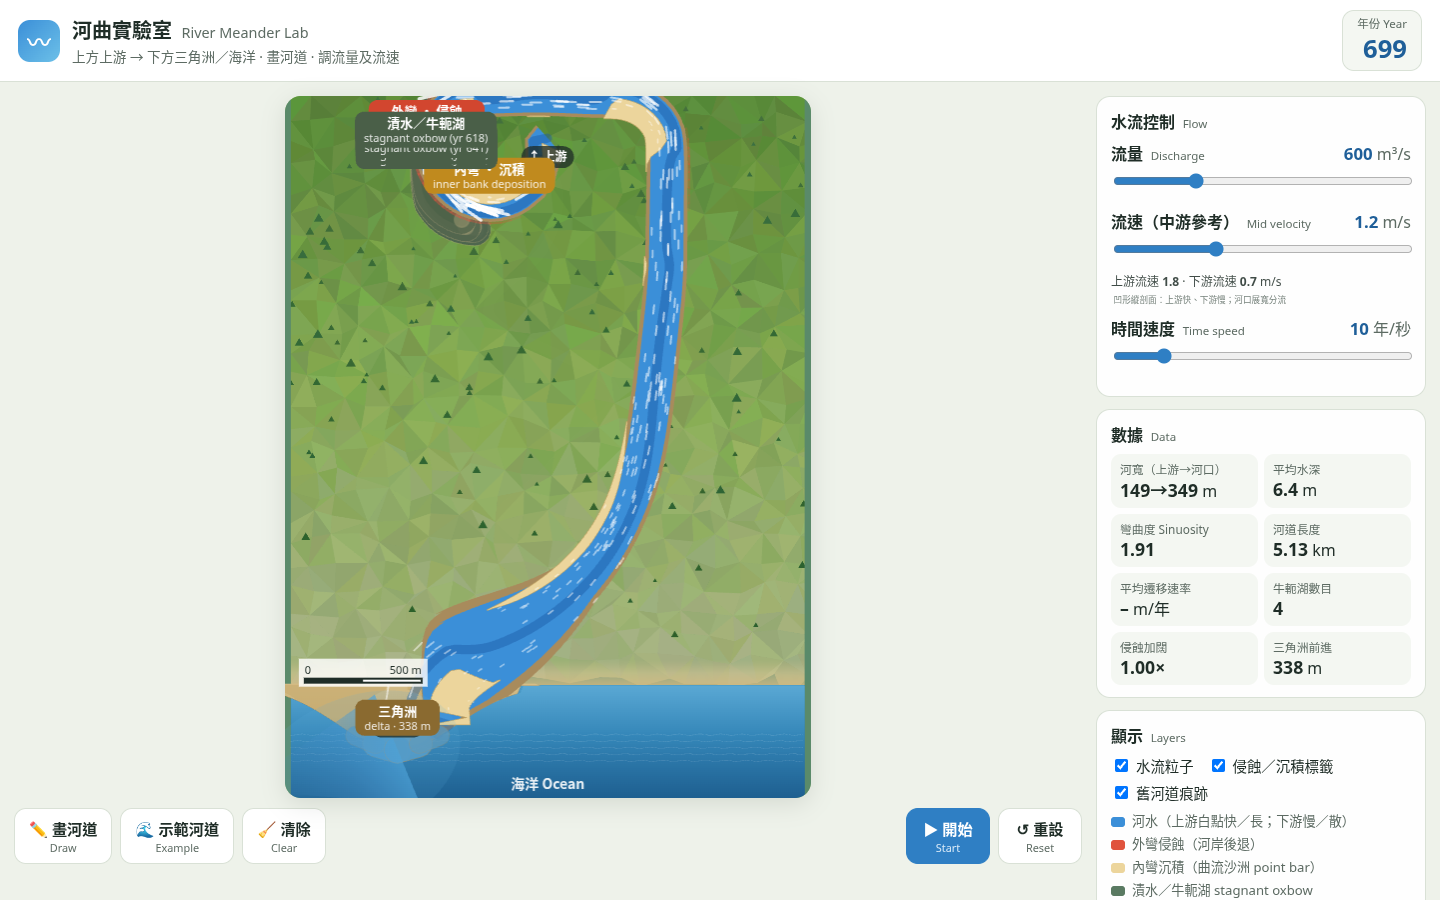
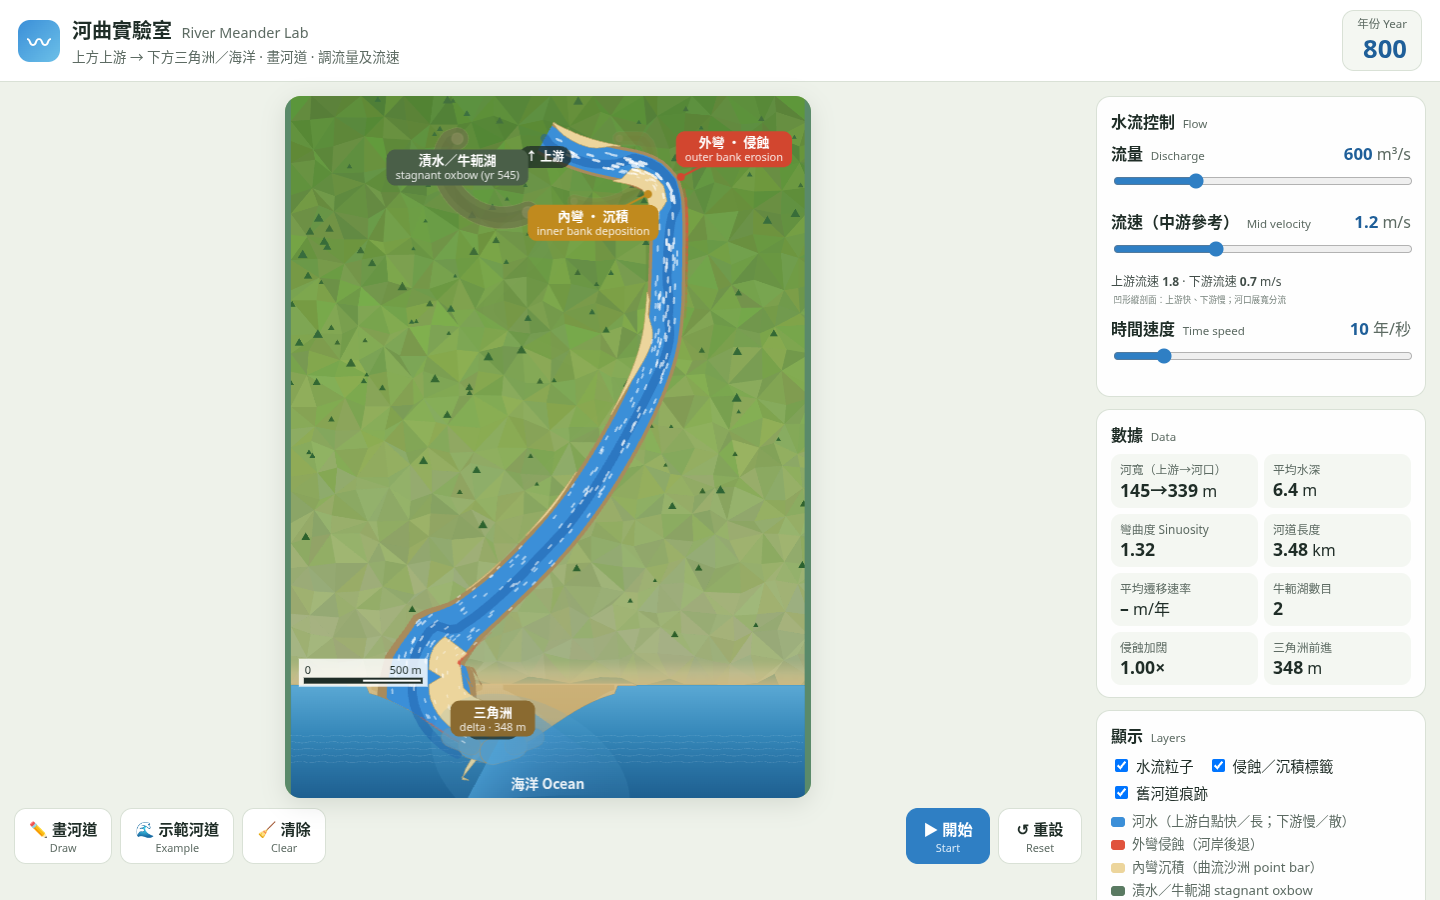
Prevent upstream climb: seaward-only flow and limited Y backtrack
Root cause: migration normals could push nodes upslope, letting bends
fold into hairpins that curl back toward the source.

- Dampen upslope migration; prefer lateral (across-valley) motion
- enforceDownslopeProgress: cap along-channel Y reversal (~2× width)
- cutUpstreamHairpins when path returns near source after going south
- Particles: f only increases toward mouth; streaks follow channel tangent
- Tests: max upslope reversal, no source-return hairpin, particle df≥0

diff --git a/sim.js b/sim.js
@@ -441,7 +441,12 @@
         sum += Math.abs(d);
 
         let mx = -g.nx[i] * d, my = -g.ny[i] * d;
-        // 唔好遷入海：若下一步入海就截喺岸邊
+        // 優先側向遷移：大幅抑制「向上游／上坡」（y 減少）分量
+        if (my < 0) my *= 0.18;
+        // 鄰點約束：唔好令本點明顯爬返上游
+        if (i > 0 && p[i].y + my < p[i - 1].y - this.width * 1.1) {
+          my = Math.max(my, p[i - 1].y - this.width * 1.1 - p[i].y);
+        }
         let nx_ = p[i].x + mx, ny_ = p[i].y + my;
         if (this.isOcean(nx_, ny_, 5)) {
           ny_ = this.waterLineY(nx_) - 4;
@@ -454,10 +459,12 @@
       // 上游：彈簧拉向 sourceAnchor（可輕微漂移）
       if (this.sourceAnchor) {
         const k = 0.35;
+        const sy = Math.max(p[0].y, this.sourceAnchor.y); // 源頭唔准北移
         np[0] = {
           x: p[0].x + (this.sourceAnchor.x - p[0].x) * k * Math.min(1, dt),
-          y: p[0].y + (this.sourceAnchor.y - p[0].y) * k * Math.min(1, dt)
+          y: p[0].y + (sy - p[0].y) * k * Math.min(1, dt)
         };
+        if (np[0].y < p[0].y) np[0].y = p[0].y;
       }
 
       // 河口：鎖在海岸／三角洲水線內側
@@ -481,6 +488,7 @@
       let nxt = resample(sm, ds);
       if (nxt.length > 420) nxt = resample(sm, ds * (nxt.length / 380));
       nxt = this.attractToValley(nxt, 0.12);
+      nxt = this.enforceDownslopeProgress(nxt);
       this.pts = this.clipChannelToLand(nxt);
       this.year += dt;
       this.ph1 += (Math.random() - 0.5) * 0.4 * Math.sqrt(dt);
@@ -513,7 +521,10 @@
       while (this.sinuosity() > 2.0 && guard++ < 4) {
         if (!this.forceLargestLoopCutoff()) break;
       }
-      this.pts = this.attractToValley(this.spreadBends(this.clipChannelToLand(this.pts)), 0.08);
+      this.pts = this.enforceDownslopeProgress(
+        this.attractToValley(this.spreadBends(this.clipChannelToLand(this.pts)), 0.08)
+      );
+      this.cutUpstreamHairpins();
       this.resolveSelfIntersections(4);
       this.computeGeom();
       const rate = meanMig / Math.max(dt, 1e-6);
@@ -811,7 +822,102 @@
 
     /** @deprecated 用 truncateAtCoast */
     clipChannelToLand(pts) {
-      return this.enforceSeawardNearCoast(this.truncateAtCoast(pts));
+      return this.enforceDownslopeProgress(
+        this.enforceSeawardNearCoast(this.truncateAtCoast(pts))
+      );
+    }
+
+    /**
+     * 沿程大致向海（Y 增加）。允許輕微曲流折返，但唔准髮夾彎向上游爬。
+     * maxBack ≈ min(2.0×河寬, 0.18×波長)。
+     */
+    maxUpslopeAllowance() {
+      return Math.min(this.width * 2.0, this.meanderWavelength * 0.18);
+    }
+
+    enforceDownslopeProgress(pts) {
+      if (!pts || pts.length < 3) return pts;
+      const out = pts.map(q => ({ x: q.x, y: q.y }));
+      const maxBack = this.maxUpslopeAllowance();
+      let runMax = out[0].y;
+      for (let i = 1; i < out.length; i++) {
+        // 相鄰：唔好大幅向北
+        const floorLocal = out[i - 1].y - maxBack * 0.55;
+        if (out[i].y < floorLocal) out[i].y = floorLocal;
+        // 包絡：相對已達最南點，折返唔好超過 maxBack
+        const floorEnv = runMax - maxBack;
+        if (out[i].y < floorEnv) out[i].y = floorEnv;
+        runMax = Math.max(runMax, out[i].y);
+      }
+      // 源頭之後前 8% 節點：更嚴，避免近源髮夾
+      const nHead = Math.max(4, Math.floor(out.length * 0.1));
+      const headBack = Math.min(maxBack * 0.45, this.width * 1.1);
+      let headMax = out[0].y;
+      for (let i = 1; i < nHead && i < out.length; i++) {
+        if (out[i].y < headMax - headBack) out[i].y = headMax - headBack;
+        if (out[i].y < out[i - 1].y - headBack * 0.7) out[i].y = out[i - 1].y - headBack * 0.7;
+        headMax = Math.max(headMax, out[i].y);
+      }
+      return out;
+    }
+
+    /**
+     * 若河道離開源頭後又折返接近源頭 Y → 視為向上游髮夾，強制截彎。
+     */
+    cutUpstreamHairpins() {
+      const p = this.pts;
+      if (!p || p.length < 16) return 0;
+      const y0 = p[0].y;
+      const yMouth = p[p.length - 1].y;
+      const span = Math.max(200, yMouth - y0);
+      const nearSrc = y0 + span * 0.18;
+      let farSouth = y0;
+      let cuts = 0;
+      for (let i = 2; i < p.length - 2; i++) {
+        farSouth = Math.max(farSouth, p[i].y);
+        // 已去到夠下游，又折返接近源頭
+        if (farSouth > y0 + span * 0.28 && p[i].y < nearSrc) {
+          // 搵環路起點：最近一個遠南點
+          let jStart = 1;
+          for (let k = i - 1; k >= 1; k--) {
+            if (p[k].y >= farSouth - this.width * 0.5) { jStart = k; break; }
+          }
+          if (i - jStart >= 6) {
+            if (this.applyCutoff(jStart, i, { forced: true })) {
+              cuts++;
+              farSouth = this.pts[0].y;
+              break; // pts 已變，交俾下一步再掃
+            }
+          }
+        }
+      }
+      return cuts;
+    }
+
+    /** 測試：沿程 Y 折返是否超過上限 */
+    maxUpslopeReversal() {
+      const p = this.pts;
+      if (!p || p.length < 2) return 0;
+      let runMax = p[0].y, worst = 0;
+      for (let i = 1; i < p.length; i++) {
+        worst = Math.max(worst, runMax - p[i].y);
+        runMax = Math.max(runMax, p[i].y);
+      }
+      return worst;
+    }
+
+    /** 測試：離開源頭後有冇折返到接近源頭 */
+    hasUpstreamHairpin() {
+      const p = this.pts;
+      if (!p || p.length < 8) return false;
+      const y0 = p[0].y;
+      const span = Math.max(200, p[p.length - 1].y - y0);
+      let far = y0;
+      for (let i = 1; i < p.length; i++) {
+        far = Math.max(far, p[i].y);
+        if (far > y0 + span * 0.3 && p[i].y < y0 + span * 0.16) return true;
+      }
+      return false;
     }
 
     /**

diff --git a/app.js b/app.js
@@ -139,30 +139,35 @@
     const g = sim.geom; if (!g || sim.pts.length < 3) return;
     const L = g.length;
     for (const q of state.particles) {
-      const frac = Math.max(0, Math.min(1, q.f));
-      const loc = locate(q.f * L);
-      // 橫向：上游集中，下游／河口擴散（展現展寬）
+      const frac = Math.max(0, Math.min(0.999, q.f || 0));
+      const loc = locate(frac * L);
+      // 橫向：上游集中，下游／河口擴散
       const spread = 0.55 + 0.9 * Math.pow(frac, 1.4);
       let fac = (1 - 1.2 * loc.cw * q.o) * (1 - 0.3 * q.o * q.o);
       fac = Math.max(0.2, Math.min(2.4, fac));
       const vLoc = sim.velocityAt(frac);
-      // speed 正規化到中游參考，方便畫長短拖尾
       q.speed = (vLoc / Math.max(0.2, sim.v)) * fac;
-      q.f += (vLoc * fac * 78 * dtSec) / L;
+      // 硬規則：只准向河口（f 只增不減）；重置只喺上游重生
+      const df = Math.max(0, (vLoc * fac * 78 * dtSec) / L);
+      q.fPrev = frac;
+      q.f = frac + df;
       if (q.f >= 1) {
-        // 到河口後少數粒子沿分流扇出再重生
-        q.f = Math.random() * 0.12;
+        q.f = Math.random() * 0.08; // 重生喺上游
         q.o = (Math.random() * 2 - 1) * 0.9;
         q.px = null;
+        q.fPrev = q.f;
       }
-      const l2 = locate(Math.min(0.999, q.f) * L);
-      const wLoc = sim.widthAt(Math.min(1, q.f));
-      // 下游橫向偏移加大 → 粒子散開
+      const f2 = Math.min(0.999, q.f);
+      const l2 = locate(f2 * L);
+      const wLoc = sim.widthAt(f2);
       const lat = q.o * wLoc * 0.5 * spread;
       q.lx = q.px; q.ly = q.py;
       q.px = l2.x + l2.nx * lat;
       q.py = l2.y + l2.ny * lat;
-      if (q.py > sim.waterLineY(q.px) - 2) { q.f = Math.random() * 0.35; q.px = null; }
+      // 拖尾方向：沿河道切線向下游（唔跟幾何折返）
+      const idx = Math.min(g.tx.length - 1, Math.max(0, Math.floor(f2 * (g.tx.length - 1))));
+      q.tx = g.tx[idx]; q.ty = g.ty[idx];
+      if (q.py > sim.waterLineY(q.px) - 2) { q.f = Math.random() * 0.2; q.px = null; }
     }
   }
 
@@ -562,19 +567,24 @@
   function drawParticles(c, land) {
     c.save(); c.lineCap = 'round';
     const tipY = land[land.length - 1].y;
+    const s = state.view.s;
     for (const q of state.particles) {
-      if (q.lx == null || q.px == null) continue;
+      if (q.px == null) continue;
       if (q.py > tipY - 8) continue;
       if (q.py > sim.waterLineY(q.px) - 2) continue;
-      const a = toScreen({ x: q.lx, y: q.ly }), b = toScreen({ x: q.px, y: q.py });
-      const dx = b.x - a.x, dy = b.y - a.y;
-      if (dx * dx + dy * dy > 1200) continue;
-      // 上游長亮拖尾；河口短而淡
+      const b = toScreen({ x: q.px, y: q.py });
       const sp = Math.max(0.25, q.speed || 1);
-      const k = 2.2 + sp * 2.4;
+      // 拖尾沿河道切線向下游（tx,ty 指向河口方向）
+      let tx = q.tx || 0, ty = q.ty || 1;
+      const tl = Math.hypot(tx, ty) || 1;
+      tx /= tl; ty /= tl;
+      const len = (6 + sp * 14) * s; // screen px
       c.strokeStyle = `rgba(255,255,255,${0.28 + 0.55 * Math.min(1, sp / 1.8)})`;
       c.lineWidth = 1.0 + sp * 1.05;
-      c.beginPath(); c.moveTo(b.x - dx * k, b.y - dy * k); c.lineTo(b.x, b.y); c.stroke();
+      c.beginPath();
+      c.moveTo(b.x - tx * len, b.y - ty * len);
+      c.lineTo(b.x, b.y);
+      c.stroke();
     }
     c.restore();
   }

diff --git a/test/sim.test.js b/test/sim.test.js
@@ -28,6 +28,13 @@ function assertCentered(sim, label) {
     label + ': meanX=' + st.mean.toFixed(0) + ' not mid-map');
 }
 
+function assertDownslope(sim, label) {
+  const allow = sim.maxUpslopeAllowance() * 1.05;
+  const rev = sim.maxUpslopeReversal();
+  assert(rev <= allow, label + ': upslope reversal ' + rev.toFixed(1) + ' > ' + allow.toFixed(1));
+  assert.strictEqual(sim.hasUpstreamHairpin(), false, label + ': upstream hairpin');
+}
+
 function run(Q, v, years) {
   const sim = new RiverSim({ Q, v });
   sim.setPath(RiverSim.presetPath(sim.worldW, sim.worldH, sim.oceanH));
@@ -46,15 +53,18 @@ function run(Q, v, years) {
     if (y % 100 === 0) {
       assertNoSeaClimb(sim, 'Q' + Q + '@' + y);
       assertSimpleChannel(sim, 'Q' + Q + '@' + y);
+      assertDownslope(sim, 'Q' + Q + '@' + y);
     }
     if (y >= 500 && y % 50 === 0) {
       assertCentered(sim, 'Q' + Q + '@' + y);
+      assertDownslope(sim, 'Q' + Q + '@' + y);
       sins.push(sim.sinuosity());
     }
   }
   assertNoSeaClimb(sim, 'Q' + Q + ' final');
   assertSimpleChannel(sim, 'Q' + Q + ' final');
   assertCentered(sim, 'Q' + Q + ' final');
+  assertDownslope(sim, 'Q' + Q + ' final');
   assert(sim.deltaAdvance > 20);
   const sin = sim.sinuosity();
   assert(sin < 2.15, 'Q' + Q + ' sin too high: ' + sin);
@@ -103,4 +113,32 @@ assert(Math.abs(vv.velocityAt(0) / 1.2 - 1.5) < 0.08);
 assert(vv.velocityAt(1) / 1.2 < 0.7);
 assert(vv.migrateScaleAt(0.2) > vv.migrateScaleAt(0.9));
 console.log('velocity profile OK up=' + vv.upstreamVelocity.toFixed(2) + ' dn=' + vv.mouthVelocity.toFixed(2));
+
+// Particle fractions only increase toward mouth
+const pSim = new RiverSim({ Q: 600, v: 1.2 });
+pSim.setPath(RiverSim.presetPath(pSim.worldW, pSim.worldH, pSim.oceanH));
+for (let i = 0; i < 200; i++) pSim.advance(1);
+pSim.computeGeom();
+const L = pSim.geom.length;
+let f = 0.1;
+for (let step = 0; step < 40; step++) {
+  const vLoc = pSim.velocityAt(f);
+  const df = (vLoc * 78 * 0.016) / L;
+  assert(df >= 0, 'particle df must be >= 0');
+  f = Math.min(0.999, f + df);
+}
+assert(f > 0.1, 'particle advanced toward mouth');
+
+// Artificial upstream hairpin must be flattened / cut
+const hair = new RiverSim();
+hair.setPath([
+  { x: 1100, y: 200 }, { x: 1100, y: 600 }, { x: 1400, y: 900 },
+  { x: 1100, y: 250 }, // climbs back near source
+  { x: 1100, y: 1400 }, { x: 1100, y: 2500 }
+]);
+hair.pts = hair.enforceDownslopeProgress(hair.pts);
+hair.computeGeom();
+assert(hair.maxUpslopeReversal() <= hair.maxUpslopeAllowance() * 1.05, 'hairpin not flattened');
+assert.strictEqual(hair.hasUpstreamHairpin(), false, 'hairpin still present');
+console.log('particle seaward OK; hairpin flattened rev=' + hair.maxUpslopeReversal().toFixed(1));
 console.log('ALL OK');
